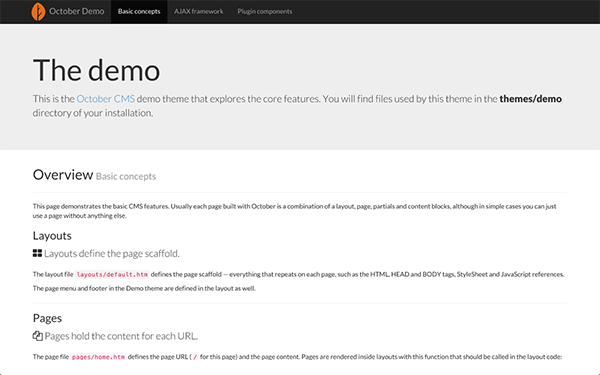
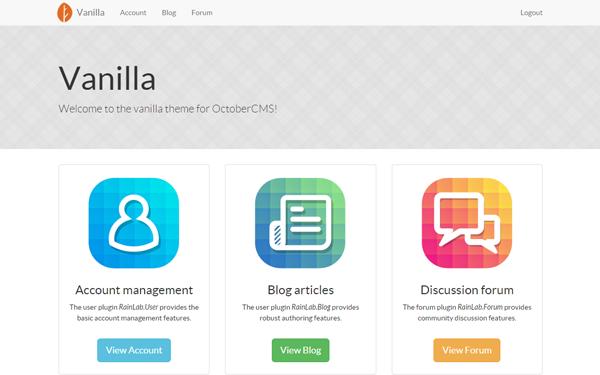
Add some nice touches

diff --git a/layouts/default.htm b/layouts/default.htm
@@ -24,7 +24,7 @@ security = "all"
         <header id="layout-header">
 
             <!-- Nav -->
-            <nav id="layout-nav" class="navbar navbar-inverse navbar-fixed-top" role="navigation">
+            <nav id="layout-nav" class="navbar navbar-default navbar-fixed-top" role="navigation">
                 <div class="container">
                     <div class="navbar-header">
                         <button type="button" class="navbar-toggle" data-toggle="collapse" data-target=".navbar-main-collapse">
@@ -33,13 +33,15 @@ security = "all"
                             <span class="icon-bar"></span>
                             <span class="icon-bar"></span>
                         </button>
-                        <a class="navbar-brand" href="{{ 'home'|page }}">October Demo</a>
+                        <a class="navbar-brand" href="{{ 'home'|page }}">Vanilla</a>
                     </div>
                     <div class="collapse navbar-collapse navbar-main-collapse">
                         <ul class="nav navbar-nav">
                             <li class="{% if this.page.id == 'account' %}active{% endif %}"><a href="{{ 'account'|page }}">Account</a></li>
                             <li class="{% if this.page.id == 'blog' %}active{% endif %}"><a href="{{ 'blog'|page }}">Blog</a></li>
                             <li class="{% if this.page.id == 'forum' %}active{% endif %}"><a href="{{ 'forum'|page }}">Forum</a></li>
+                        </ul>
+                        <ul class="nav navbar-nav navbar-right">
                             {% if user %}
                                 <li><a href="#" data-request="onLogout">Logout</a></li>
                             {% endif %}
@@ -50,9 +52,11 @@ security = "all"
 
         </header>
 
+        {% set jumbotronTexture = random(['carbon', 'dustnscratches', 'elegant', 'grunge', 'leather', 'lines', 'plaid', 'wood']) %}
+
         <!-- Content -->
         <section id="layout-content">
-            <div class="jumbotron">
+            <div class="jumbotron" style="background-image:url({{ ('assets/images/textures/'~jumbotronTexture~'.png')|theme }})">
                 <div class="container">
                     <h1>{{ this.page.title }}</h1>
                     <p>{{ this.page.description }}</p>

diff --git a/pages/home.htm b/pages/home.htm
@@ -4,3 +4,50 @@ layout = "default"
 description = "Welcome to the vanilla theme for OctoberCMS!"
 hidden = "0"
 ==
+
+<div class="row">
+    <div class="col-sm-6 col-md-4">
+        <div class="thumbnail text-center">
+            <br />
+            <img src="{{ 'assets/images/plugin-user.png'|theme }}" alt="RainLab.User" />
+            <div class="caption">
+                <h3>Account management</h3>
+                <p>The user plugin <em>RainLab.User</em> provides the basic account management features.</p>
+                <br />
+                <p>
+                    <a href="{{ 'account'|page }}" class="btn btn-lg btn-info" role="button">View Account</a>
+                </p>
+            </div>
+        </div>
+    </div>
+
+    <div class="col-sm-6 col-md-4">
+        <div class="thumbnail text-center">
+            <br />
+            <img src="{{ 'assets/images/plugin-blog.png'|theme }}" alt="RainLab.Blog" />
+            <div class="caption">
+                <h3>Blog articles</h3>
+                <p>The user plugin <em>RainLab.Blog</em> provides robust authoring features.</p>
+                <br />
+                <p>
+                    <a href="{{ 'blog'|page }}" class="btn btn-lg btn-success" role="button">View Blog</a>
+                </p>
+            </div>
+        </div>
+    </div>
+
+    <div class="col-sm-6 col-md-4">
+        <div class="thumbnail text-center">
+            <br />
+            <img src="{{ 'assets/images/plugin-forum.png'|theme }}" alt="RainLab.Forum" />
+            <div class="caption">
+                <h3>Discussion forum</h3>
+                <p>The forum plugin <em>RainLab.Forum</em> provides community discussion features.</p>
+                <br />
+                <p>
+                    <a href="{{ 'forum'|page }}" class="btn btn-lg btn-warning" role="button">View Forum</a>
+                </p>
+            </div>
+        </div>
+    </div>
+</div>

diff --git a/pages/blog/post.htm b/pages/blog/post.htm
@@ -22,5 +22,10 @@ function onEnd()
 ==
 {% component 'blogPost' %}
 
-<h2>Comments</h2>
-{% component 'forumEmbedTopic' %}
+<hr />
+<h4>Comments</h4>
+{% if user %}
+    {% component 'forumEmbedTopic' %}
+{% else %}
+    <p>Please <a href="{{ 'account'|page }}">sign in</a> to comment!</p>
+{% endif %}
